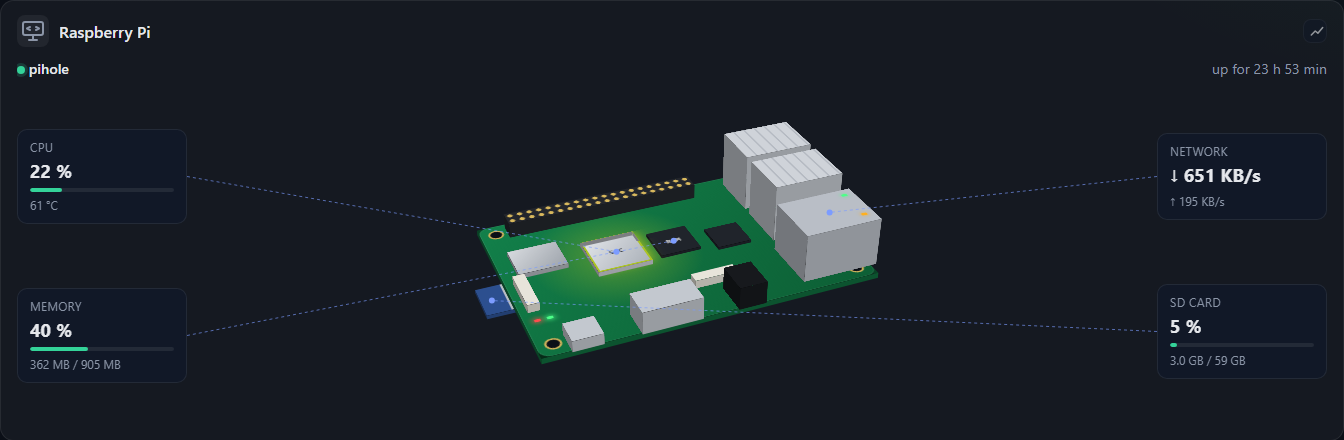
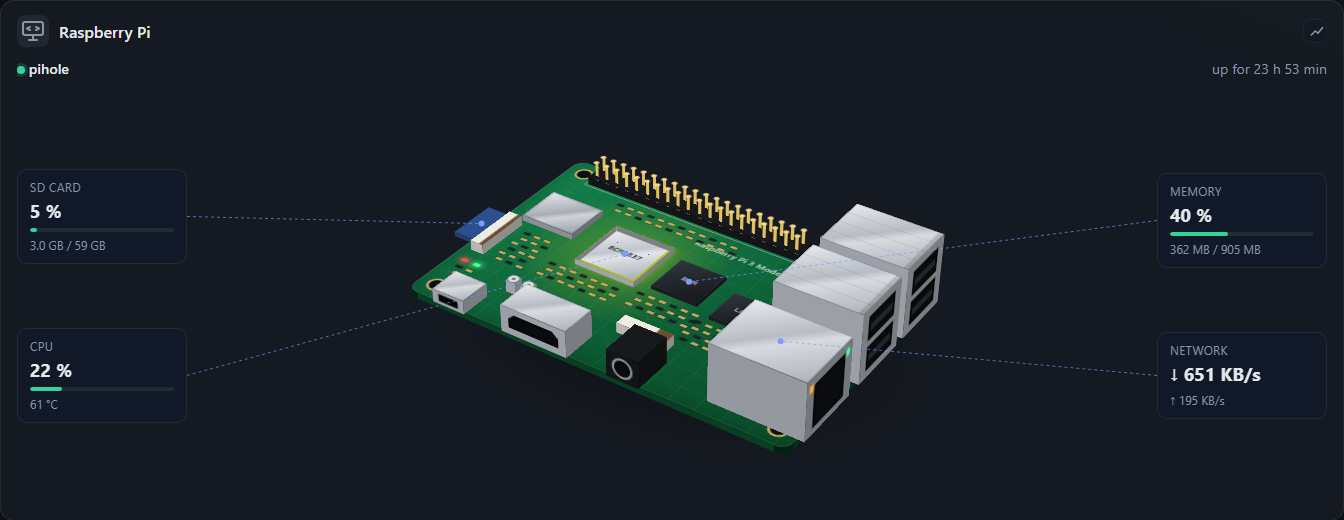
Version 0.30.1 : vue 3D plus détaillée et couleurs de la courbe réseau
- Maquette plus grande : ouvertures des ports, broches GPIO, pistes, composants
  et ombre au sol ; vue par défaut côté ports
- Valeurs placées pour que les traits ne se croisent pas
- Courbe réseau : Reçu et Envoyé ne partagent plus le vert d'un accent vert

diff --git a/public/widgets/agent-3d.js b/public/widgets/agent-3d.js
@@ -10,49 +10,82 @@ const SWAY_MS = 16_000;
 const WIDE_STAGE_PX = 620; // en dessous : valeurs sous la maquette, sans traits
 const boards = new Map(); // id du widget -> maquette : l'angle choisi survit aux rafraîchissements
 
-// Pavé droit posé sur la carte : x, y et z en pixels, w x d au sol, h de hauteur.
-function cuboid({ x, y, z = 0, w, d, h: height, color, cls = '', top }) {
-  const face = (name, style) => h('div', { class: `b3d-face ${name}`, style });
+// Pavé droit posé sur la carte : x, y et z en pixels, w x d au sol, h de hauteur. top, front et right :
+// le contenu de ces faces. inset : côtés raccourcis, pour suivre les coins arrondis de la carte.
+function cuboid({ x, y, z = 0, w, d, h: height, color, cls = '', top, front, right, inset = 0 }) {
+  const face = (name, style, content) => h('div', { class: `b3d-face ${name}`, style }, content);
   return h('div', { class: `b3d ${cls}`, style: `left:${x}px;top:${y}px;width:${w}px;height:${d}px;--c:${color};transform:translateZ(${z}px)` },
     face('bottom', `width:${w}px;height:${d}px`),
-    face('side', `width:${w}px;height:${height}px;transform:rotateX(90deg)`),
-    face('side front', `width:${w}px;height:${height}px;transform:translateY(${d}px) rotateX(90deg)`),
-    face('end', `width:${height}px;height:${d}px;transform:rotateY(-90deg)`),
-    face('end', `width:${height}px;height:${d}px;transform:translateX(${w}px) rotateY(-90deg)`),
+    face('side', `left:${inset}px;width:${w - 2 * inset}px;height:${height}px;transform:rotateX(90deg)`),
+    face('side front', `left:${inset}px;width:${w - 2 * inset}px;height:${height}px;transform:translateY(${d}px) rotateX(90deg)`, front),
+    face('end', `top:${inset}px;width:${height}px;height:${d - 2 * inset}px;transform:rotateY(-90deg)`),
+    face('end', `top:${inset}px;width:${height}px;height:${d - 2 * inset}px;transform:translateX(${w}px) rotateY(-90deg)`, right),
     h('div', { class: 'b3d-top', style: `width:${w}px;height:${d}px;transform:translateZ(${height}px)` }, top));
 }
 
+const place = (cls, left, top, width, height, content) => h('i', { class: cls, style: `left:${left}px;top:${top}px;width:${width}px;height:${height}px` }, content);
+
+// Connecteur GPIO : un socle, et les 40 broches dessinées sur trois plans, bien plus léger que 40 pavés.
+function gpio(x, y) {
+  const pinsZ = 14;
+  const plane = (py) => h('i', { class: 'b3d-pins', style: `transform:translateY(${py}px) rotateX(90deg)` });
+  return h('div', { class: 'b3d', style: `left:${x}px;top:${y}px;width:204px;height:20px;transform:translateZ(6px)` },
+    cuboid({ x: 0, y: 0, w: 204, d: 20, h: 7, color: '#17191d' }),
+    plane(5), plane(15),
+    h('i', { class: 'b3d-pin-tops', style: `transform:translateZ(${pinsZ + 6}px)` }));
+}
+
 function boardParts() {
-  const led = (cls, x, y) => h('i', { class: `b3d-led ${cls}`, style: `left:${x}px;top:${y}px` });
-  const hole = (x, y) => h('i', { class: 'b3d-hole', style: `left:${x}px;top:${y}px` });
-  const soc = cuboid({ x: 88, y: 70, z: 6, w: 56, d: 56, h: 5, color: '#c8ccd2', cls: 'b3d-soc', top: h('span', {}, 'SoC') });
-  const ram = cuboid({ x: 156, y: 78, z: 6, w: 42, d: 42, h: 3, color: '#20242b', top: h('span', {}, 'RAM') });
+  const led = (cls, left, top) => h('i', { class: `b3d-led ${cls}`, style: `left:${left}px;top:${top}px` });
+  const hole = (left, top) => h('i', { class: 'b3d-hole', style: `left:${left}px;top:${top}px` });
+  // Sur les faces, le premier axe monte depuis la carte (face de droite) ou la suit (face avant).
+  const usbPorts = [place('b3d-port b3d-port-usb', 7, 9, 21, 38), place('b3d-port b3d-port-usb', 34, 9, 21, 38)];
+  const soc = cuboid({ x: 88, y: 70, z: 6, w: 56, d: 56, h: 5, color: '#c8ccd2', cls: 'b3d-soc', top: h('span', {}, 'BCM2837') });
+  const ram = cuboid({ x: 156, y: 78, z: 6, w: 42, d: 42, h: 3, color: '#20242b', cls: 'b3d-chip', top: h('span', {}, 'RAM') });
   // Le point d'attache de la carte SD est sur sa partie visible, qui dépasse de la carte.
   const sd = cuboid({ x: -26, y: 92, z: -5, w: 60, d: 44, h: 4, color: '#2c4f8f', cls: 'b3d-sd', top: h('i', { class: 'b3d-anchor' }) });
   const eth = cuboid({
-    x: 266, y: 148, z: 6, w: 80, d: 62, h: 52, color: '#b9bec6',
-    top: [led('b3d-eth-a', 66, 8), led('b3d-eth-b', 66, 46)],
+    x: 266, y: 148, z: 6, w: 80, d: 62, h: 52, color: '#b9bec6', cls: 'b3d-metal',
+    right: [place('b3d-port', 6, 10, 38, 42), led('b3d-eth-a', 40, 4), led('b3d-eth-b', 40, 54)],
   });
+  // Petits composants à plat sur le circuit : une grille régulière, décalée d'une rangée à l'autre.
+  const smd = [];
+  for (const [ox, oy, cols, rows] of [[70, 134, 7, 3], [150, 128, 6, 3], [28, 112, 3, 6], [206, 134, 4, 4], [66, 36, 12, 2], [12, 178, 2, 2]]) {
+    for (let r = 0; r < rows; r++) {
+      for (let c = 0; c < cols; c++) {
+        const cls = (c + r) % 3 === 0 ? 'b3d-smd b3d-smd-dark' : 'b3d-smd';
+        smd.push(place(cls, ox + c * 10 + (r % 2) * 3, oy + r * 8, 6, 3));
+      }
+    }
+  }
+  const caps = [[238, 136], [252, 136], [238, 152], [66, 176], [80, 176]].map(([x, y]) => cuboid({ x, y, z: 6, w: 9, d: 9, h: 11, color: '#c7ccd2', cls: 'b3d-cap' }));
   const parts = [
-    cuboid({ x: 0, y: 0, w: BOARD_W, d: BOARD_D, h: 6, color: '#0f6b3c', cls: 'b3d-pcb', top: [
+    h('i', { class: 'b3d-shadow' }),
+    cuboid({ x: 0, y: 0, w: BOARD_W, d: BOARD_D, h: 6, color: '#0a4f2c', cls: 'b3d-pcb', inset: 10, top: [
+      h('i', { class: 'b3d-traces' }),
       hole(10, 10), hole(BOARD_W - 22, 10), hole(10, BOARD_D - 22), hole(BOARD_W - 22, BOARD_D - 22),
       h('i', { class: 'b3d-heat' }),
+      place('b3d-silk-box', 25, 3, 210, 26),
+      h('span', { class: 'b3d-silk', style: 'left:150px;top:44px' }, 'Raspberry Pi 3 Model B+'),
+      ...smd,
       led('b3d-pwr', 10, 168), led('b3d-act', 22, 168),
     ] }),
     sd,
-    cuboid({ x: 28, y: 6, z: 6, w: 204, d: 20, h: 16, color: '#23262c', cls: 'b3d-gpio' }),
+    gpio(28, 6),
     soc,
     ram,
     cuboid({ x: 16, y: 58, z: 6, w: 50, d: 42, h: 5, color: '#aeb3ba', cls: 'b3d-can' }), // Wi-Fi
-    cuboid({ x: 214, y: 92, z: 6, w: 36, d: 36, h: 3, color: '#20242b' }), // contrôleur réseau
-    cuboid({ x: 272, y: 12, z: 6, w: 74, d: 56, h: 62, color: '#c3c8cf', cls: 'b3d-usb' }),
-    cuboid({ x: 272, y: 78, z: 6, w: 74, d: 56, h: 62, color: '#c3c8cf', cls: 'b3d-usb' }),
+    cuboid({ x: 214, y: 92, z: 6, w: 36, d: 36, h: 3, color: '#20242b', cls: 'b3d-chip', top: h('span', {}, 'LAN') }),
+    cuboid({ x: 238, y: 18, z: 6, w: 22, d: 22, h: 12, color: '#17191d', cls: 'b3d-poe' }), // PoE
+    ...caps,
+    cuboid({ x: 272, y: 12, z: 6, w: 74, d: 56, h: 62, color: '#c3c8cf', cls: 'b3d-usb b3d-metal', right: usbPorts }),
+    cuboid({ x: 272, y: 78, z: 6, w: 74, d: 56, h: 62, color: '#c3c8cf', cls: 'b3d-usb b3d-metal', right: usbPorts.map((p) => p.cloneNode(true)) }),
     eth,
-    cuboid({ x: 28, y: 198, z: 6, w: 30, d: 28, h: 12, color: '#c3c8cf' }), // alimentation
-    cuboid({ x: 94, y: 194, z: 6, w: 60, d: 32, h: 24, color: '#c3c8cf' }), // HDMI
-    cuboid({ x: 190, y: 190, z: 6, w: 28, d: 36, h: 24, color: '#17191d' }), // jack
-    cuboid({ x: 166, y: 168, z: 6, w: 44, d: 12, h: 9, color: '#e7e4da' }), // caméra
-    cuboid({ x: 8, y: 106, z: 6, w: 12, d: 50, h: 9, color: '#e7e4da' }), // écran
+    cuboid({ x: 28, y: 198, z: 6, w: 30, d: 28, h: 12, color: '#c3c8cf', cls: 'b3d-metal', front: place('b3d-port', 6, 3, 18, 6) }), // alimentation
+    cuboid({ x: 94, y: 194, z: 6, w: 60, d: 32, h: 24, color: '#c3c8cf', cls: 'b3d-metal', front: place('b3d-port b3d-port-hdmi', 7, 6, 46, 13) }), // HDMI
+    cuboid({ x: 190, y: 190, z: 6, w: 28, d: 36, h: 24, color: '#17191d', front: place('b3d-port b3d-port-jack', 7, 5, 14, 14) }), // jack
+    cuboid({ x: 166, y: 168, z: 6, w: 44, d: 12, h: 9, color: '#e7e4da', cls: 'b3d-ribbon' }), // caméra
+    cuboid({ x: 8, y: 106, z: 6, w: 12, d: 50, h: 9, color: '#e7e4da', cls: 'b3d-ribbon' }), // écran
   ];
   return { parts, anchors: { soc, ram, sd, eth } };
 }
@@ -80,9 +113,9 @@ function createBoard() {
   const lines = svgEl('svg', { class: 'b3d-lines', 'aria-hidden': 'true' });
   const labels = {
     soc: boardLabel('left', t('stat.cpu')),
-    ram: boardLabel('left', t('stat.memory')),
+    ram: boardLabel('right', t('stat.memory')),
     eth: boardLabel('right', t('history.network')),
-    sd: boardLabel('right', t('agent3d.sd')),
+    sd: boardLabel('left', t('agent3d.sd')),
   };
   const wires = Object.fromEntries(Object.keys(labels).map((k) => {
     const line = svgEl('line', { class: 'b3d-wire' });
@@ -92,13 +125,13 @@ function createBoard() {
   }));
   const stage = h('div', { class: 'b3d-stage', role: 'img', title: t('agent3d.hint') }, h('div', { class: 'b3d-view' }, scene));
   const root = h('div', { class: 'b3d-root' },
-    h('div', { class: 'b3d-labels' }, labels.soc.el, labels.ram.el),
+    h('div', { class: 'b3d-labels' }, labels.sd.el, labels.soc.el),
     stage,
-    h('div', { class: 'b3d-labels' }, labels.eth.el, labels.sd.el),
+    h('div', { class: 'b3d-labels' }, labels.ram.el, labels.eth.el),
     lines);
 
   const reduced = matchMedia('(prefers-reduced-motion: reduce)').matches;
-  const view = { rx: 56, rz: -24, drag: null, touched: reduced, started: performance.now(), running: false };
+  const view = { rx: 54, rz: 32, drag: null, touched: reduced, started: performance.now(), running: false };
 
   const drawWires = () => {
     const wide = root.classList.contains('b3d-wide');
@@ -124,7 +157,7 @@ function createBoard() {
     const width = root.clientWidth;
     root.classList.toggle('b3d-wide', width >= WIDE_STAGE_PX);
     const room = root.classList.contains('b3d-wide') ? width - 2 * 190 : width;
-    scene.style.setProperty('--b3d-scale', Math.min(1, room / 520).toFixed(3));
+    scene.style.setProperty('--b3d-scale', Math.min(1.3, room / 470).toFixed(3));
   };
 
   const frame = (now) => {

diff --git a/public/style.css b/public/style.css
@@ -796,31 +796,53 @@ body:not(.editing) .stat:focus-visible { outline: 2px solid var(--accent); outli
 .b3d-label b { font-size: 1.15rem; font-variant-numeric: tabular-nums; white-space: nowrap; }
 .b3d-label small { font-size: 0.74rem; min-height: 1em; white-space: nowrap; overflow: hidden; text-overflow: ellipsis; }
 .b3d-label-bar .bar { margin: 2px 0; }
-.b3d-stage { position: relative; height: 340px; cursor: grab; touch-action: pan-y; overflow: visible; user-select: none; }
+.b3d-stage { position: relative; height: 420px; cursor: grab; touch-action: pan-y; overflow: visible; user-select: none; }
 .b3d-stage.b3d-grabbing { cursor: grabbing; }
-.b3d-view { position: absolute; inset: 0; perspective: 1100px; display: grid; place-items: center; }
+.b3d-view { position: absolute; inset: 0; perspective: 1400px; display: grid; place-items: center; }
 .b3d-scene { position: relative; width: 340px; height: 224px; transform-style: preserve-3d; }
 .b3d { position: absolute; transform-style: preserve-3d; }
 .b3d-face, .b3d-top { position: absolute; left: 0; top: 0; }
-.b3d-face { transform-origin: 0 0; background: var(--c); filter: brightness(0.62); }
-.b3d-face.front { filter: brightness(0.78); }
-.b3d-face.bottom { filter: brightness(0.4); }
+.b3d-face { --shade: 0.38; transform-origin: 0 0; background: linear-gradient(rgba(0, 0, 0, var(--shade)), rgba(0, 0, 0, var(--shade))), var(--c); }
+.b3d-face.front { --shade: 0.2; }
+.b3d-face.bottom { --shade: 0.6; }
 .b3d-top { background: var(--c); display: grid; place-items: center; font: 600 9px/1 ui-monospace, Consolas, monospace; color: rgba(255, 255, 255, 0.75); }
 .b3d-top > * { pointer-events: none; }
 .b3d-pcb .b3d-top {
-  border-radius: 12px; display: block; overflow: hidden;
-  background: linear-gradient(135deg, #12804a, #0d5f35);
-  box-shadow: inset 0 0 0 1px rgba(255, 255, 255, 0.08);
+  border-radius: 10px; display: block; overflow: hidden;
+  background: linear-gradient(135deg, #14824c, #0c5a33 70%, #0a4f2c);
+  box-shadow: inset 0 0 0 1px rgba(255, 255, 255, 0.1), inset 0 0 24px rgba(0, 0, 0, 0.25);
 }
 .b3d-hole { position: absolute; width: 12px; height: 12px; border-radius: 50%; background: #0b0f17; box-shadow: 0 0 0 2px #d1b35c; }
 .b3d-heat {
   position: absolute; left: 116px; top: 98px; width: 180px; height: 180px; margin: -90px; border-radius: 50%;
   background: radial-gradient(circle, var(--b3d-soc), transparent 68%); opacity: calc(var(--b3d-heat) * 0.75 + 0.1);
 }
-.b3d-soc .b3d-top { background: linear-gradient(135deg, #e3e6ea, #aab0b8); color: #3b4048; box-shadow: 0 0 calc(var(--b3d-heat) * 26px) var(--b3d-soc), inset 0 0 0 2px var(--b3d-soc); }
-.b3d-gpio .b3d-top { background: radial-gradient(circle at center, #d9b95d 0 2.6px, #23262c 3px) 0 0 / 10.2px 10px; }
-.b3d-can .b3d-top { background: linear-gradient(135deg, #d7dade, #9da3ab); }
-.b3d-usb .b3d-top { background: repeating-linear-gradient(90deg, #cfd3d9 0 10px, #b5bac2 10px 12px); }
+.b3d-soc .b3d-top { background: linear-gradient(135deg, #f2f4f6, #c2c7ce 45%, #e2e5e9 55%, #a4aab3); color: #3b4048; font-size: 8px; box-shadow: 0 0 calc(var(--b3d-heat) * 26px) var(--b3d-soc), inset 0 0 0 2px var(--b3d-soc); }
+.b3d-can .b3d-top { background: linear-gradient(135deg, #e6e8eb, #a8aeb6 50%, #d0d4d9 60%, #9aa0a8); box-shadow: inset 0 0 0 1.5px rgba(0, 0, 0, 0.2); }
+.b3d-metal .b3d-top { background: linear-gradient(135deg, #e8eaed, #b8bdc5 45%, #d8dbe0 55%, #aeb3bb); box-shadow: inset 0 0 0 1px rgba(0, 0, 0, 0.18); }
+.b3d-usb .b3d-top { background: linear-gradient(90deg, transparent 0 94%, rgba(0, 0, 0, 0.15) 94%), repeating-linear-gradient(0deg, transparent 0 13px, rgba(0, 0, 0, 0.08) 13px 14px), linear-gradient(135deg, #e8eaed, #b8bdc5 45%, #d8dbe0 55%, #aeb3bb); }
+.b3d-chip .b3d-top { background: linear-gradient(135deg, #30353d, #15181c); box-shadow: inset 0 0 0 1px rgba(255, 255, 255, 0.06); color: rgba(255, 255, 255, 0.55); font-size: 8px; }
+.b3d-cap .b3d-top { background: radial-gradient(circle, #6d7279 0 22%, #dfe2e6 26% 62%, #9aa0a8 68%); border-radius: 50%; }
+.b3d-poe .b3d-top { background: radial-gradient(circle at center, #d9b95d 0 2.4px, #17191d 2.8px) 0 0 / 11px 11px; }
+.b3d-ribbon .b3d-top { background: linear-gradient(90deg, #efece2 0 72%, #6b4f33 72%); }
+.b3d-port { position: absolute; display: block; background: #0a0c0f; box-shadow: inset 0 0 6px #000, 0 0 0 1px rgba(0, 0, 0, 0.35); border-radius: 1px; }
+.b3d-port-usb::after { content: ''; position: absolute; left: 7px; top: 3px; bottom: 3px; width: 6px; background: #20242b; }
+.b3d-port-hdmi { clip-path: polygon(0 0, 100% 0, 100% 62%, 88% 100%, 12% 100%, 0 62%); }
+.b3d-port-jack { border-radius: 50%; box-shadow: inset 0 0 4px #000, 0 0 0 2px #8f949b; }
+.b3d-traces {
+  position: absolute; inset: 0;
+  background:
+    repeating-linear-gradient(90deg, transparent 0 21px, rgba(180, 255, 210, 0.05) 21px 22px),
+    repeating-linear-gradient(0deg, transparent 0 17px, rgba(180, 255, 210, 0.04) 17px 18px),
+    repeating-linear-gradient(45deg, transparent 0 34px, rgba(180, 255, 210, 0.035) 34px 35px);
+}
+.b3d-silk-box { position: absolute; border: 1px solid rgba(255, 255, 255, 0.4); border-radius: 2px; }
+.b3d-silk { position: absolute; font: 600 8px/1 system-ui, sans-serif; letter-spacing: 0.02em; color: rgba(255, 255, 255, 0.72); white-space: nowrap; }
+.b3d-smd { position: absolute; background: #c9a15e; border-radius: 0.5px; box-shadow: 0 0 0 0.5px rgba(0, 0, 0, 0.35); }
+.b3d-smd-dark { background: #1e2126; }
+.b3d-pins { position: absolute; left: 0; top: 0; width: 204px; height: 20px; transform-origin: 0 0; background: repeating-linear-gradient(90deg, transparent 0 3.6px, #e0c063 3.6px 6.6px, transparent 6.6px 10.2px); }
+.b3d-pin-tops { position: absolute; left: 0; top: 0; width: 204px; height: 20px; background: radial-gradient(circle at center, #f1d982 0 2.2px, transparent 2.6px) 0 0 / 10.2px 10px; }
+.b3d-shadow { position: absolute; left: -50px; top: -40px; width: 440px; height: 304px; transform: translateZ(-16px); background: radial-gradient(closest-side, rgba(0, 0, 0, 0.55), transparent); pointer-events: none; }
 .b3d-sd .b3d-top { background: linear-gradient(90deg, #2c4f8f 0 40%, #b7bcc4 40%); }
 .b3d-led { position: absolute; width: 6px; height: 4px; border-radius: 1px; }
 .b3d-pwr { background: #ff4d4d; box-shadow: 0 0 6px 1px #ff4d4d; }

diff --git a/public/history.js b/public/history.js
@@ -5,7 +5,8 @@ const SVG_NS = 'http://www.w3.org/2000/svg';
 const CHART_W = 1000;
 const CHART_H = 100;
 const GAP_FACTOR = 2.5; // plus de 2,5 points manquants : un trou dans la courbe, pas un segment droit
-const SERIES_COLORS = ['var(--accent)', 'var(--ok)', 'var(--warn)', 'var(--bad)'];
+// La couleur d'accent peut être verte : la deuxième série ne doit pas utiliser le vert de « ok ».
+const SERIES_COLORS = ['var(--accent)', 'var(--warn)', '#a78bfa', 'var(--bad)'];
 const SPARK_EVERY_MS = 120_000;
 
 function svgEl(tag, attrs = {}, ...children) {

diff --git a/CHANGELOG.md b/CHANGELOG.md
@@ -4,6 +4,14 @@ Toutes les évolutions notables du projet. Format inspiré de [Keep a Changelog]
 
 ## [Non publié]
 
+## [0.30.1] - 2026-11-07
+
+### Modifié
+- Vue 3D plus détaillée et plus grande : ouvertures des ports, broches GPIO, pistes et composants du circuit, métal et ombre au sol.
+
+### Corrigé
+- Courbe réseau : avec une couleur d’accent verte, Reçu et Envoyé avaient la même couleur.
+
 ## [0.30.0] - 2026-11-07
 
 ### Ajouté
@@ -352,7 +360,8 @@ Première version publique.
 - Sessions invalidées à la déconnexion et au changement de mot de passe.
 - Mot de passe admin lu depuis `.env` (Docker) ou `/etc/server-dashboard/server-dashboard.env` (systemd), jamais dans le dépôt.
 
-[Non publié]: https://github.com/Circule-studio/server-dashboard/compare/v0.30.0...HEAD
+[Non publié]: https://github.com/Circule-studio/server-dashboard/compare/v0.30.1...HEAD
+[0.30.1]: https://github.com/Circule-studio/server-dashboard/compare/v0.30.0...v0.30.1
 [0.30.0]: https://github.com/Circule-studio/server-dashboard/compare/v0.29.1...v0.30.0
 [0.29.1]: https://github.com/Circule-studio/server-dashboard/compare/v0.29.0...v0.29.1
 [0.29.0]: https://github.com/Circule-studio/server-dashboard/compare/v0.28.0...v0.29.0
